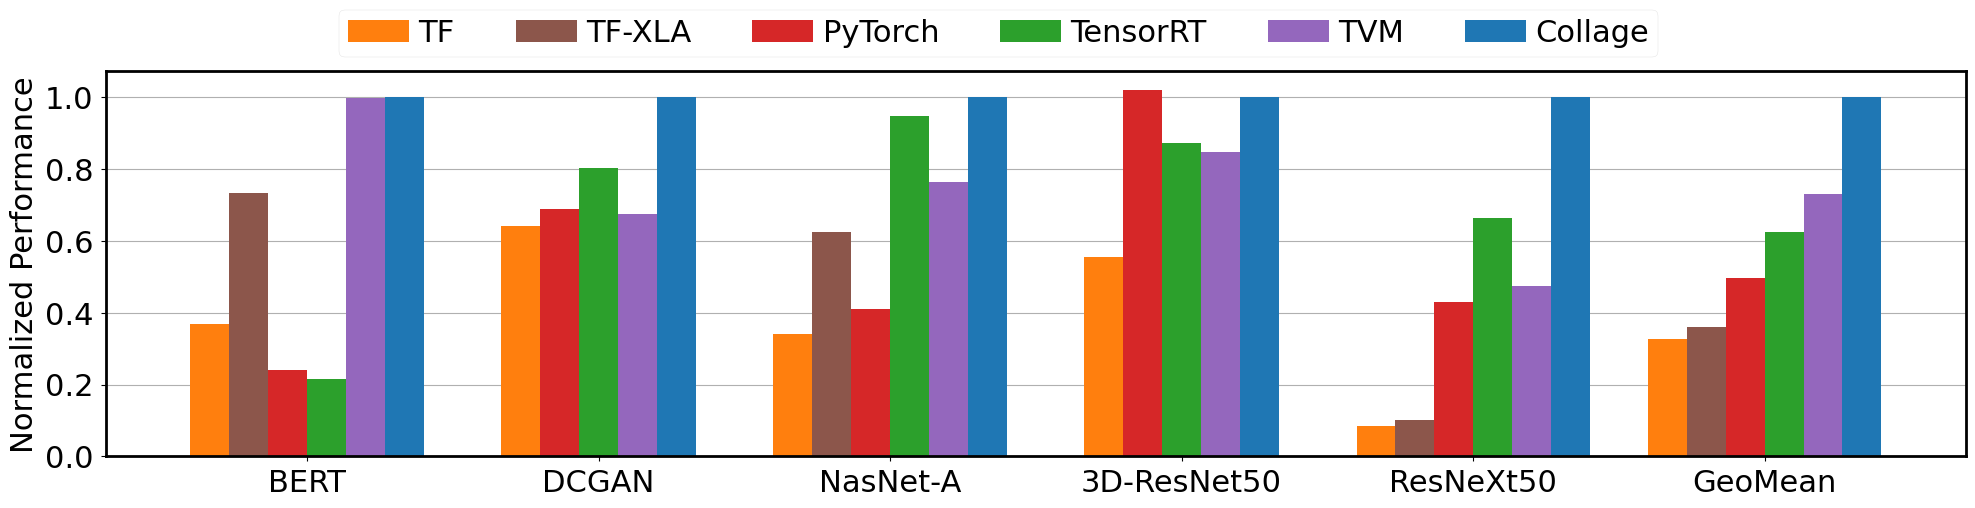
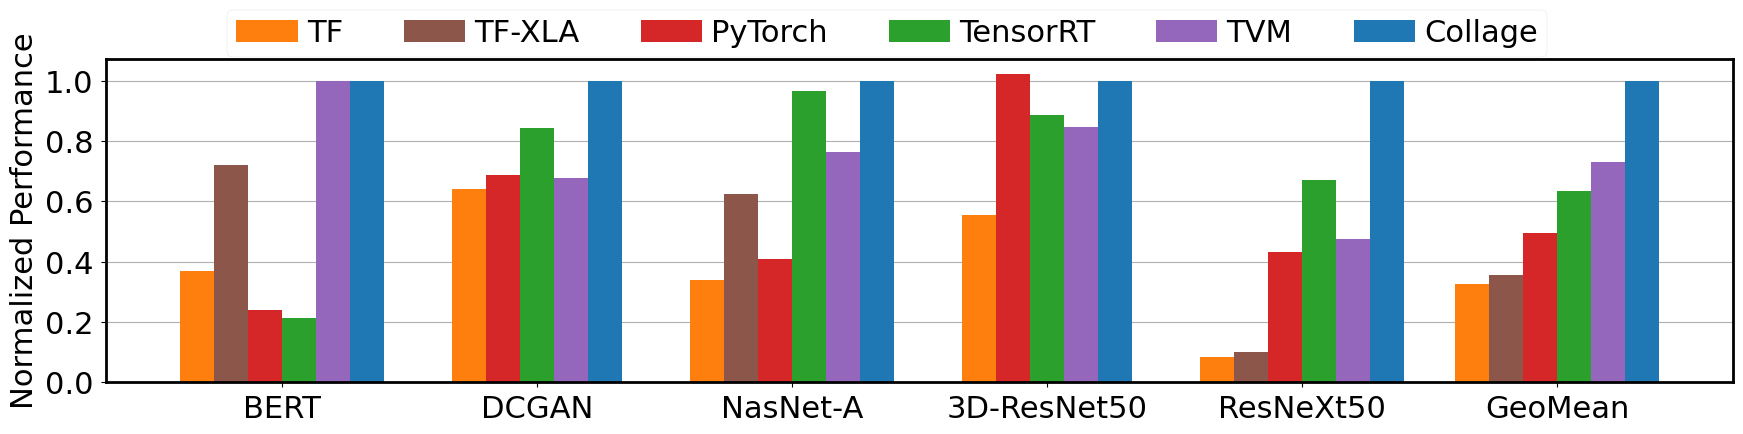
[E2E plot] more compact to fit in the paper

Changed region(s): [[0.0, 0.03, 1.0, 0.9885], [0.8055, 0.5991, 0.8985, 0.6889], [0.8675, 0.5392, 0.8985, 0.5691]]

diff --git a/sandbox/testing/plot_e2e_perf.py b/sandbox/testing/plot_e2e_perf.py
@@ -104,7 +104,7 @@ def draw_plot_without_nan_values(df, is_diff_batch=False):
     if is_diff_batch:
         fig = plt.figure(figsize=(16, 5))
     else:
-        fig = plt.figure(figsize=(24, 5))
+        fig = plt.figure(figsize=(21, 4.2))
 
     ax = plt.gca()
 
@@ -156,6 +156,7 @@ def draw_e2e_perf_plot_normalized(df, args, is_diff_batch=False):
 
     plt.grid(axis='y', zorder=-2.0)
     plt.xticks(rotation=0)
+    plt.yticks(np.arange(0,1.01,0.2))
     plt.legend(ncol=args.n_method, loc='upper center', bbox_to_anchor=(0.48, 1.2), handletextpad=0.3, borderpad=0.3, labelspacing=0.15)
     plt.savefig(f"{EXP_RESULT_PATH}/plots/e2e_perf_norm_{args.hw}_{args.batch_size}.png", bbox_inches='tight')
 
@@ -168,7 +169,7 @@ def draw_e2e_perf_plot_ms(df, args):
 
     plt.grid(axis='y', zorder=-2.0)
     plt.xticks(rotation=0)
-    plt.legend(ncol=6, loc='upper center', bbox_to_anchor=(0.5, 1.2))
+    plt.legend(ncol=6, loc='upper center', bbox_to_anchor=(0.5, 1.22))
     plt.savefig(f"{EXP_RESULT_PATH}/plots/e2e_perf_ms_{args.hw}_{args.batch_size}.png", bbox_inches='tight')
 
 
